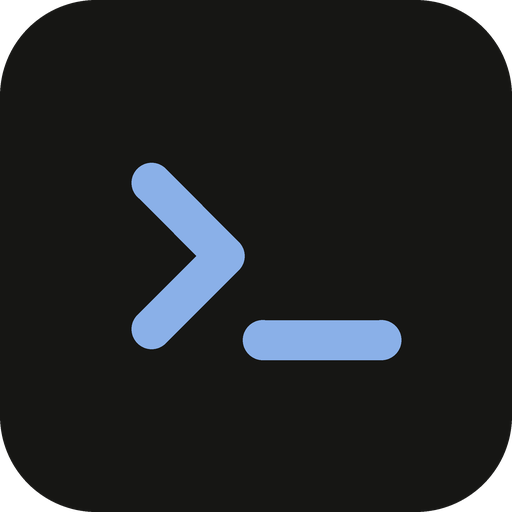
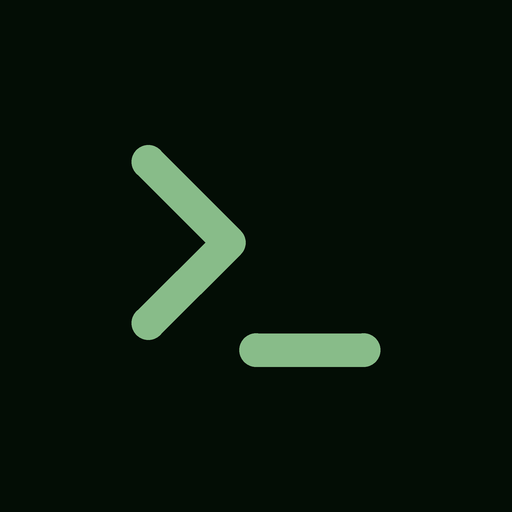
feat: finish the product surface of the app and doction.site
Closes the details a finished-product audit found, without adding
features.

Documentation site: robots.txt naming the sitemap, a title and
description per page (derived by the hook when a page declares none),
Open Graph and Twitter card tags with a social image built from the
design tokens, a 404 in doction's voice linking Installation, REST API,
MCP and Home, and underlined links in running text (WCAG 1.4.1, axe
reported it in both themes). The build now checks what it built and
fails, naming the page, on missing metadata or on anything loaded from
another host.

Application: the brand mark is green on every surface. The sidebar
glyph moves from orange to --nav-green, and the favicon and
installable-app icons, still in the retired blue palette, match the
site; icon-512 is full-bleed as its maskable entry requires. theme-color
and the manifest use the current tokens, and DESIGN.md records the mark.
A browser address outside /app that matches nothing now redirects into
the app instead of answering with raw JSON; API clients keep the JSON
404.

diff --git a/docs/overrides/main.html b/docs/overrides/main.html
@@ -1,0 +1,40 @@
+{#- Material overrides: social-preview metadata on every page and a home title that says what
+    doction is. Loaded through `theme.custom_dir`; see openspec change `product-finish`. -#}
+{% extends "base.html" %}
+
+{% set home_title = "doction — markdown knowledge base for humans and coding agents" %}
+
+{% block htmltitle %}
+  {% if page and page.is_homepage %}
+    <title>{{ home_title }}</title>
+  {% else %}
+    {{ super() }}
+  {% endif %}
+{% endblock %}
+
+{% block extrahead %}
+  {% if page %}
+    {% set description = page.meta.description if page.meta and page.meta.description else config.site_description %}
+    {% if page.is_homepage %}
+      {% set title = home_title %}
+    {% elif page.title %}
+      {% set title = (page.title | striptags) ~ " - " ~ config.site_name %}
+    {% else %}
+      {% set title = config.site_name %}
+    {% endif %}
+    {% set image = config.site_url ~ "docs/assets/social.png" %}
+    <meta property="og:type" content="website">
+    <meta property="og:site_name" content="{{ config.site_name }}">
+    <meta property="og:title" content="{{ title }}">
+    <meta property="og:description" content="{{ description }}">
+    {% if page.canonical_url %}<meta property="og:url" content="{{ page.canonical_url }}">{% endif %}
+    <meta property="og:image" content="{{ image }}">
+    <meta property="og:image:width" content="1200">
+    <meta property="og:image:height" content="630">
+    <meta property="og:image:alt" content="doction — markdown knowledge base for humans and coding agents">
+    <meta name="twitter:card" content="summary_large_image">
+    <meta name="twitter:title" content="{{ title }}">
+    <meta name="twitter:description" content="{{ description }}">
+    <meta name="twitter:image" content="{{ image }}">
+  {% endif %}
+{% endblock %}

diff --git a/docs/overrides/404.html b/docs/overrides/404.html
@@ -1,0 +1,16 @@
+{#- GitHub Pages serves this for any missing path, at any depth, so every link goes through
+    the `url` filter, which makes it absolute to the site root. -#}
+{% extends "main.html" %}
+
+{% block content %}
+  <p class="dx-eyebrow">404 · not found</p>
+  <h1>This page does not exist</h1>
+  <p>The address may be mistyped, or the page moved when the documentation was reorganised.
+    These are the places most people are looking for:</p>
+  <div class="dx-actions">
+    <a class="md-button md-button--primary" href="{{ 'docs/install/' | url }}">Installation</a>
+    <a class="md-button" href="{{ 'docs/api/' | url }}">REST API</a>
+    <a class="md-button" href="{{ 'docs/mcp/' | url }}">MCP</a>
+    <a class="md-button" href="{{ '/' | url }}">Home</a>
+  </div>
+{% endblock %}

diff --git a/frontend/index.html b/frontend/index.html
@@ -23,8 +23,8 @@
     <meta name="apple-mobile-web-app-title" content="doction" />
     <!-- La barra del navegador sigue al tema, como el resto: un solo valor
          pintaba el lienzo oscuro por encima del papel en modo claro. -->
-    <meta name="theme-color" media="(prefers-color-scheme: light)" content="#FAF9F5" />
-    <meta name="theme-color" media="(prefers-color-scheme: dark)" content="#161614" />
+    <meta name="theme-color" media="(prefers-color-scheme: light)" content="#f6f3eb" />
+    <meta name="theme-color" media="(prefers-color-scheme: dark)" content="#0e100e" />
     <!-- Reutiliza el mismo CSS del design system que sirve el backend. -->
     <link rel="stylesheet" href="__STATIC__/style.css" />
   </head>

diff --git a/docs/assets/doction.css b/docs/assets/doction.css
@@ -185,6 +185,12 @@
   margin-top: 36px;
 }
 .md-typeset a { text-underline-offset: 2px; }
+/* A link in running text is underlined, as the app's `.prose a` is: colour alone does not
+   distinguish it from the words around it (WCAG 1.4.1). Buttons are not running text. */
+.md-typeset :is(p, li, td, dd) > a:not(.md-button) {
+  text-decoration: underline;
+  text-decoration-thickness: 1px;
+}
 .md-typeset a:hover { color: var(--green-hover); text-decoration: underline; }
 .md-typeset a:focus-visible { outline: 2px solid var(--green-ring); outline-offset: 2px; }
 

diff --git a/app/static/style.css b/app/static/style.css
@@ -844,9 +844,9 @@ a { color: inherit; }
   width: 18px;
   height: 18px;
   flex-shrink: 0;
-  /* Naranja decorativo: la palabra «Doction» está al lado, así que quien no vea
-     el glifo no pierde nada. Por eso --orange y no --orange-ink. */
-  color: var(--orange);
+  /* The brand mark is green on every surface — sidebar, favicon, installable-app icons
+     and the documentation site (DESIGN.md §8). On the chrome it measures 6.42:1. */
+  color: var(--nav-green);
 }
 
 /* === Workspaces (dropdown) ================================================ */

diff --git a/scripts/docs_hooks.py b/scripts/docs_hooks.py
@@ -1,4 +1,4 @@
-"""MkDocs hooks: serve the landing page at the site root, and keep the site offline.
+"""MkDocs hooks: where pages are written, what a shared link shows, and keeping the site offline.
 
 The staged tree keeps `README.md` at the top and `docs/` underneath so every relative link
 resolves (see scripts/build_docs.py). That makes the README the root page and puts
@@ -12,14 +12,25 @@ trip it.
 The README's badges are remote images (shields.io, GitHub). They belong to the repository
 page, not to a site that must load nothing from a third-party host, so they are dropped from
 the site's copy only.
+
+A page that declares no `description` gets one from its first paragraph of prose, so no two
+pages share the site-wide description in search results or link previews.
 """
 
+import re
+
 from mkdocs.structure.files import File
+
+DESCRIPTION_MAX = 160
+# Blocks that are not a paragraph of prose: headings, HTML, fences, tables, lists, quotes,
+# admonitions and images.
+NOT_PROSE = ("#", "<", "```", "~~~", "|", "- ", "* ", "+ ", ">", "!!!", "???", "![", "[![", "---")
 
 # source path -> output path
 DESTINATIONS = {
     "docs/index.md": "index.html",
     "README.md": "introduction/index.html",
+    "docs/robots.txt": "robots.txt",
 }
 
 
@@ -41,7 +52,34 @@ def on_files(files, config):
     return files
 
 
+def first_paragraph(markdown):
+    for block in markdown.split("\n\n"):
+        block = block.strip()
+        if not block or block.startswith(NOT_PROSE) or block[0].isdigit():
+            continue
+        text = " ".join(block.split())
+        text = re.sub(r"!?\[([^\]]*)\]\([^)]*\)", r"\1", text)  # [label](target) -> label
+        return text.replace("`", "").replace("**", "").replace("*", "")
+    return ""
+
+
+def describe(text):
+    # A paragraph ending in a colon introduces a list; describe with what comes before it.
+    if text.endswith(":"):
+        if ". " in text:
+            text = text[: text.rindex(". ") + 1]
+        elif ", " in text:
+            text = text[: text.rindex(", ")] + "."
+    if len(text) <= DESCRIPTION_MAX:
+        return text
+    return text[: DESCRIPTION_MAX - 1].rsplit(" ", 1)[0].rstrip(",;:") + "…"
+
+
 def on_page_markdown(markdown, page, **_):
+    if not page.meta.get("description"):
+        text = first_paragraph(markdown)
+        if text:
+            page.meta["description"] = describe(text)
     if page.file.src_uri != "README.md":
         return markdown
     kept = []

diff --git a/app/main.py b/app/main.py
@@ -13,6 +13,7 @@ from pathlib import Path
 
 import jwt
 from fastapi import APIRouter, FastAPI, File, HTTPException, Request, UploadFile
+from fastapi.exception_handlers import http_exception_handler
 from fastapi.responses import (
     FileResponse,
     JSONResponse,
@@ -22,6 +23,7 @@ from fastapi.responses import (
 )
 from fastapi.staticfiles import StaticFiles
 from pydantic import BaseModel, Field
+from starlette.exceptions import HTTPException as StarletteHTTPException
 from starlette.status import HTTP_303_SEE_OTHER
 
 from app import db, embeddings, git_repo, graph, i18n, mcp, meta, ocr, seed, suggest, webhooks
@@ -1148,6 +1150,32 @@ if APP_PATH != "/":
     @app.get("/register", tags=["app"])
     async def register_redirect() -> Response:
         return RedirectResponse(APP_PATH + "/register", status_code=HTTP_303_SEE_OTHER)
+
+    # A browser address outside the application that matches nothing, such as /settings,
+    # is routed into it, where the SPA shows the page or its own 404. API clients, and
+    # anything that does not ask for HTML, keep the JSON 404.
+    RESERVED_PREFIXES = (
+        "/api",
+        "/static",
+        "/uploads",
+        "/health",
+        "/docs",
+        "/redoc",
+        "/openapi.json",
+        APP_PATH,
+    )
+
+    @app.exception_handler(StarletteHTTPException)
+    async def not_found_into_app(request: Request, exc: StarletteHTTPException) -> Response:
+        path = request.url.path
+        wants_html = "text/html" in request.headers.get("accept", "")
+        reserved = any(path == p or path.startswith(p + "/") for p in RESERVED_PREFIXES)
+        if exc.status_code == 404 and request.method == "GET" and wants_html and not reserved:
+            target = APP_PATH + path
+            if request.url.query:
+                target += "?" + request.url.query
+            return RedirectResponse(target, status_code=HTTP_303_SEE_OTHER)
+        return await http_exception_handler(request, exc)
 
 
 # In-flight OCR tasks, held strongly so the GC cannot cancel them halfway.

diff --git a/tests/test_spa_fallback.py b/tests/test_spa_fallback.py
@@ -1,0 +1,44 @@
+"""A browser address outside the application is routed into it; API clients keep the JSON 404."""
+
+HTML = {"accept": "text/html,application/xhtml+xml,*/*;q=0.8"}
+
+
+def test_a_browser_path_without_the_prefix_is_redirected_into_the_app(client):
+    r = client.get("/settings", headers=HTML, follow_redirects=False)
+    assert r.status_code == 303
+    assert r.headers["location"] == "/app/settings"
+
+
+def test_the_query_string_survives_the_redirect(client):
+    r = client.get("/w/demo/graph?focus=a", headers=HTML, follow_redirects=False)
+    assert r.status_code == 303
+    assert r.headers["location"] == "/app/w/demo/graph?focus=a"
+
+
+def test_an_unknown_api_path_keeps_the_json_404_even_for_a_browser(client):
+    r = client.get("/api/nope", headers=HTML, follow_redirects=False)
+    assert r.status_code == 404
+    assert r.json() == {"detail": "Not Found"}
+
+
+def test_a_client_that_does_not_ask_for_html_keeps_the_json_404(client):
+    r = client.get("/nope", headers={"accept": "application/json"}, follow_redirects=False)
+    assert r.status_code == 404
+    assert r.json() == {"detail": "Not Found"}
+
+
+def test_only_a_get_is_redirected(client):
+    r = client.post("/nope", headers=HTML, follow_redirects=False)
+    assert r.status_code in (404, 405)
+    assert "location" not in r.headers
+
+
+def test_a_missing_static_asset_stays_a_404(client):
+    r = client.get("/static/nope.css", headers=HTML, follow_redirects=False)
+    assert r.status_code == 404
+
+
+def test_an_api_404_raised_by_a_handler_is_unchanged(client):
+    r = client.get("/api/pages/does-not-exist", headers=HTML, follow_redirects=False)
+    assert r.status_code in (401, 404)
+    assert "location" not in r.headers

diff --git a/CHANGELOG.md b/CHANGELOG.md
@@ -13,7 +13,35 @@ summarised per release rather than exhaustive.
 
 ## Unreleased
 
-Nothing yet.
+Finishing details found by a product audit of the application and https://doction.site.
+
+### Added
+
+- **The documentation site presents itself when shared or indexed**: a `robots.txt` naming the
+  sitemap, a title and description of its own on every page (derived from the page when it
+  declares none), a descriptive home title, and Open Graph / Twitter card tags with a social
+  image built from the design tokens.
+- **A 404 in doction's voice** on the site, linking Installation, REST API, MCP and Home,
+  instead of the framework's generic page.
+- **The site build checks what it built**: it fails, naming the page, when a page lacks its
+  title, description or social tags, when `robots.txt` is missing, or when anything would load
+  from another host — the offline guarantee was previously verified by hand.
+
+### Changed
+
+- **One brand mark, in green.** The terminal glyph is `--nav-green` in the app's sidebar (it
+  was orange), and the app's favicon and installable-app icons, still in the retired blue
+  palette, now match the documentation site. `icon-512.png` is full-bleed, as its `maskable`
+  entry requires. `theme-color` and the manifest use the current canvas and chrome tokens.
+  `DESIGN.md` records the brand mark.
+- A browser address outside the application that matches nothing — `/settings`,
+  `/w/x/graph` — redirects to the same path under `/app` instead of answering with raw JSON.
+  API clients and requests that do not ask for HTML keep the JSON 404.
+
+### Fixed
+
+- Links in running text on the documentation site are underlined, as they are in the app:
+  they were distinguished by colour alone (WCAG 1.4.1, reported by axe-core in both themes).
 
 ## 0.31.11 — 2026-09-24
 

diff --git a/DESIGN.md b/DESIGN.md
@@ -125,7 +125,7 @@ says something: accent, active element, and code.
 On paper the identity orange measures 2.48:1, below the 3:1 an informative mark needs.
 That's why there are two:
 
-- `--orange` **decorates** and can go unseen: a rule, a glyph next to a word that is
+- `--orange` **decorates** and can go unseen: a rule, a mark next to a word that is
   already written. If no one loses anything by not seeing it, this is the one.
 - `--orange-ink` **informs**, and that's why it measures 4.50:1.
 
@@ -325,6 +325,19 @@ four.
 The active element carries a faint green surface and a 2px orange left rule, **not** a
 fill: orange marks the edge, and weight plus ink do the rest, so color never travels
 alone.
+
+### The brand mark
+
+The terminal glyph (`>_`, lucide `terminal`) is **green on every surface**: `--nav-green` in the
+sidebar and the documentation site's header, where it sits on the chrome at 6.42:1; the same
+colour on `--nav-bg` in the installable-app icons; and in a browser tab, which is not the
+chrome, `--green` on a light tab and `--nav-green` on a dark one. SVGs used as images and PNGs
+cannot read custom properties, so those files carry the tokens' sRGB values (`#27472f`,
+`#88bc89`, `#030d05`), read from the browser rather than converted by hand.
+
+It used to be orange in the sidebar and blue in the favicon, a leftover of an earlier palette.
+One colour means the tab, the home screen, the application and its documentation are
+recognisably the same product.
 
 ### How it's implemented
 

diff --git a/docs/index.md b/docs/index.md
@@ -1,4 +1,5 @@
 ---
+description: A self-hosted, markdown-first knowledge base for humans and coding agents. Plain markdown in git, local search, a REST API and a native MCP server.
 hide:
   - toc
 ---
